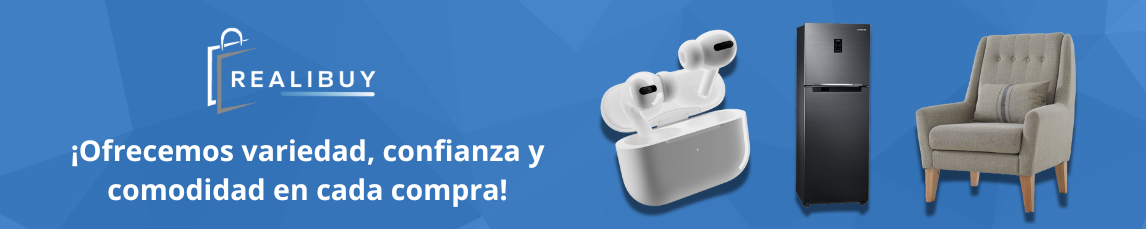
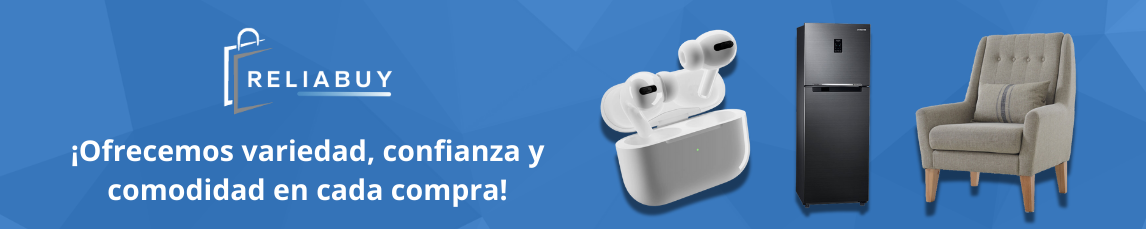
cambios3

Changed region(s): [[0.1832, 0.1223, 0.3665, 0.4891]]

diff --git a/index.html b/index.html
@@ -3,7 +3,7 @@
 <head>
     <meta charset="UTF-8">
     <meta name="viewport" content="width=device-width, initial-scale=1.0">
-    <title>Realibuy - Compra en Línea</title>
+    <title>Reliabuy - Compra en Línea</title>
     <link href="https://cdn.jsdelivr.net/npm/bootstrap@5.3.0/dist/css/bootstrap.min.css" rel="stylesheet">
 
     <!-- Colocar logo en la Pestaña -->

diff --git a/productos.html b/productos.html
@@ -3,7 +3,7 @@
 <head>
     <meta charset="UTF-8">
     <meta name="viewport" content="width=device-width, initial-scale=1.0">
-    <title>Realiabuy - Productos</title>
+    <title>Reliabuy - Productos</title>
     <link href="https://cdn.jsdelivr.net/npm/bootstrap@5.3.0/dist/css/bootstrap.min.css" rel="stylesheet">
 
     <!-- Colocar logo en la Pestaña -->
